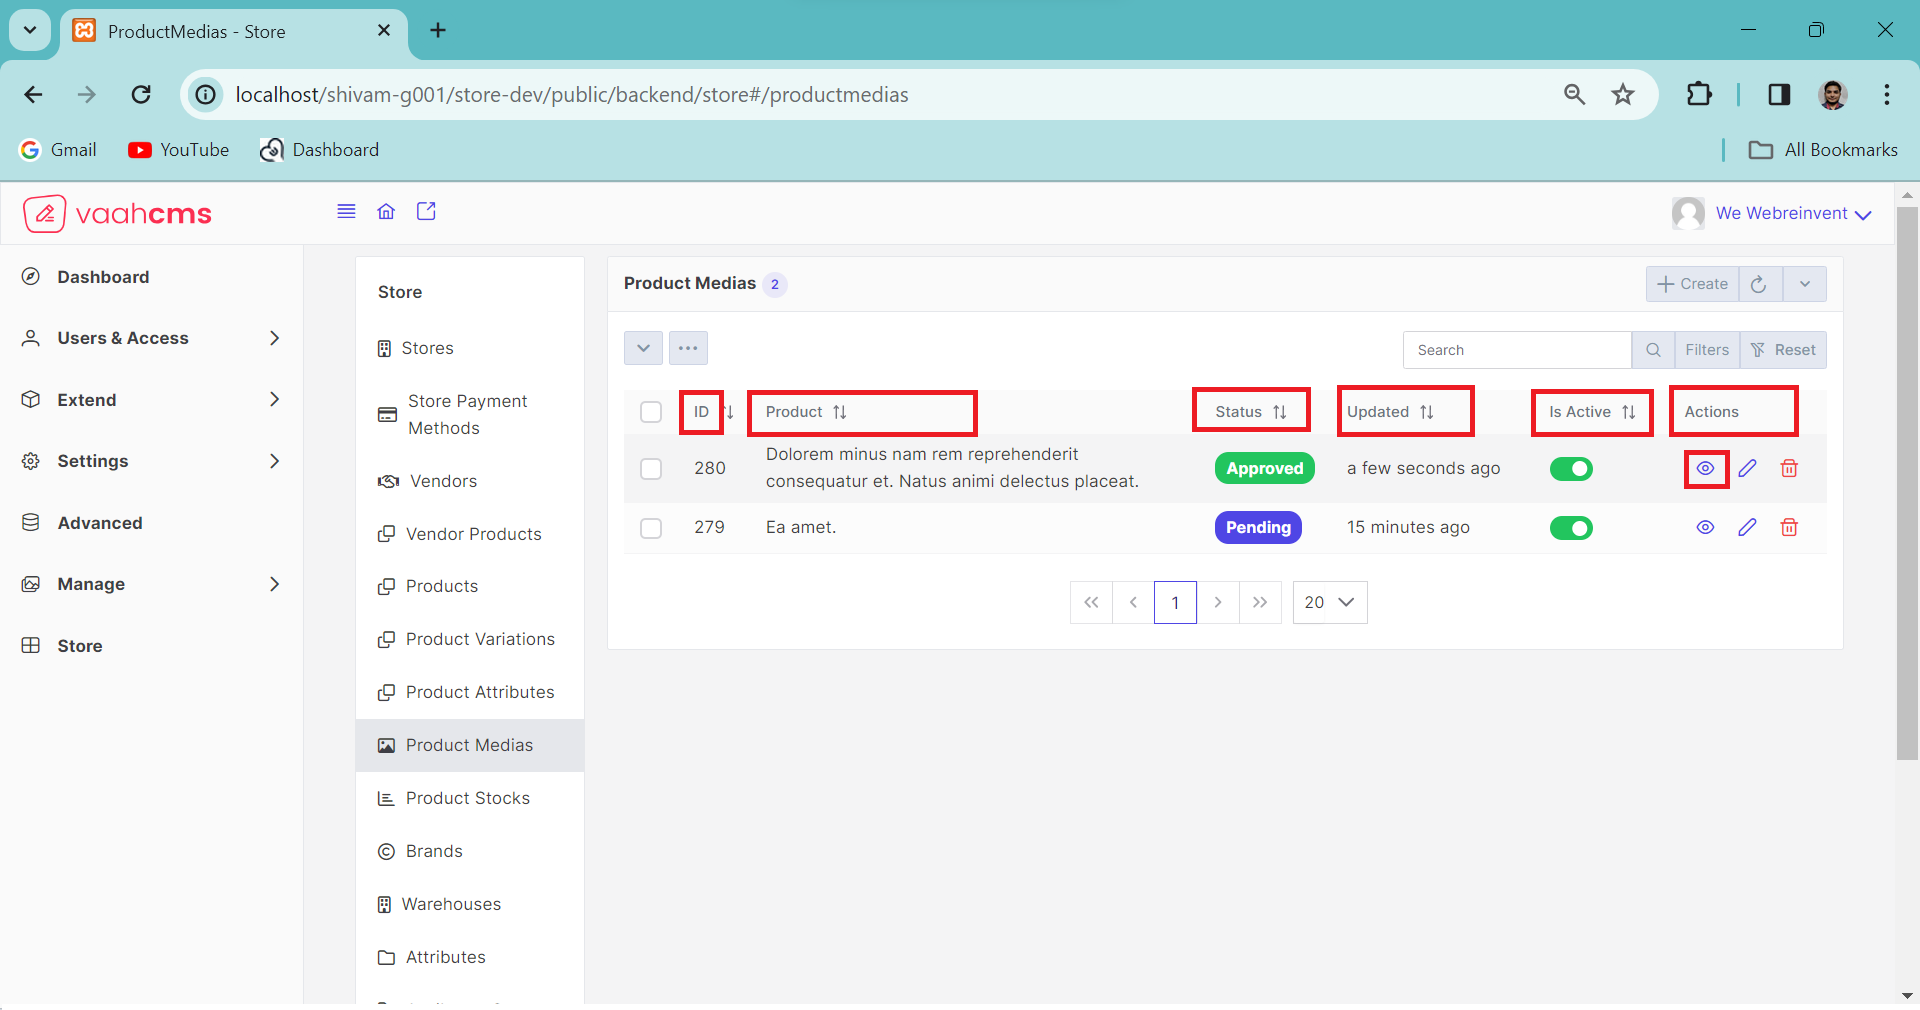
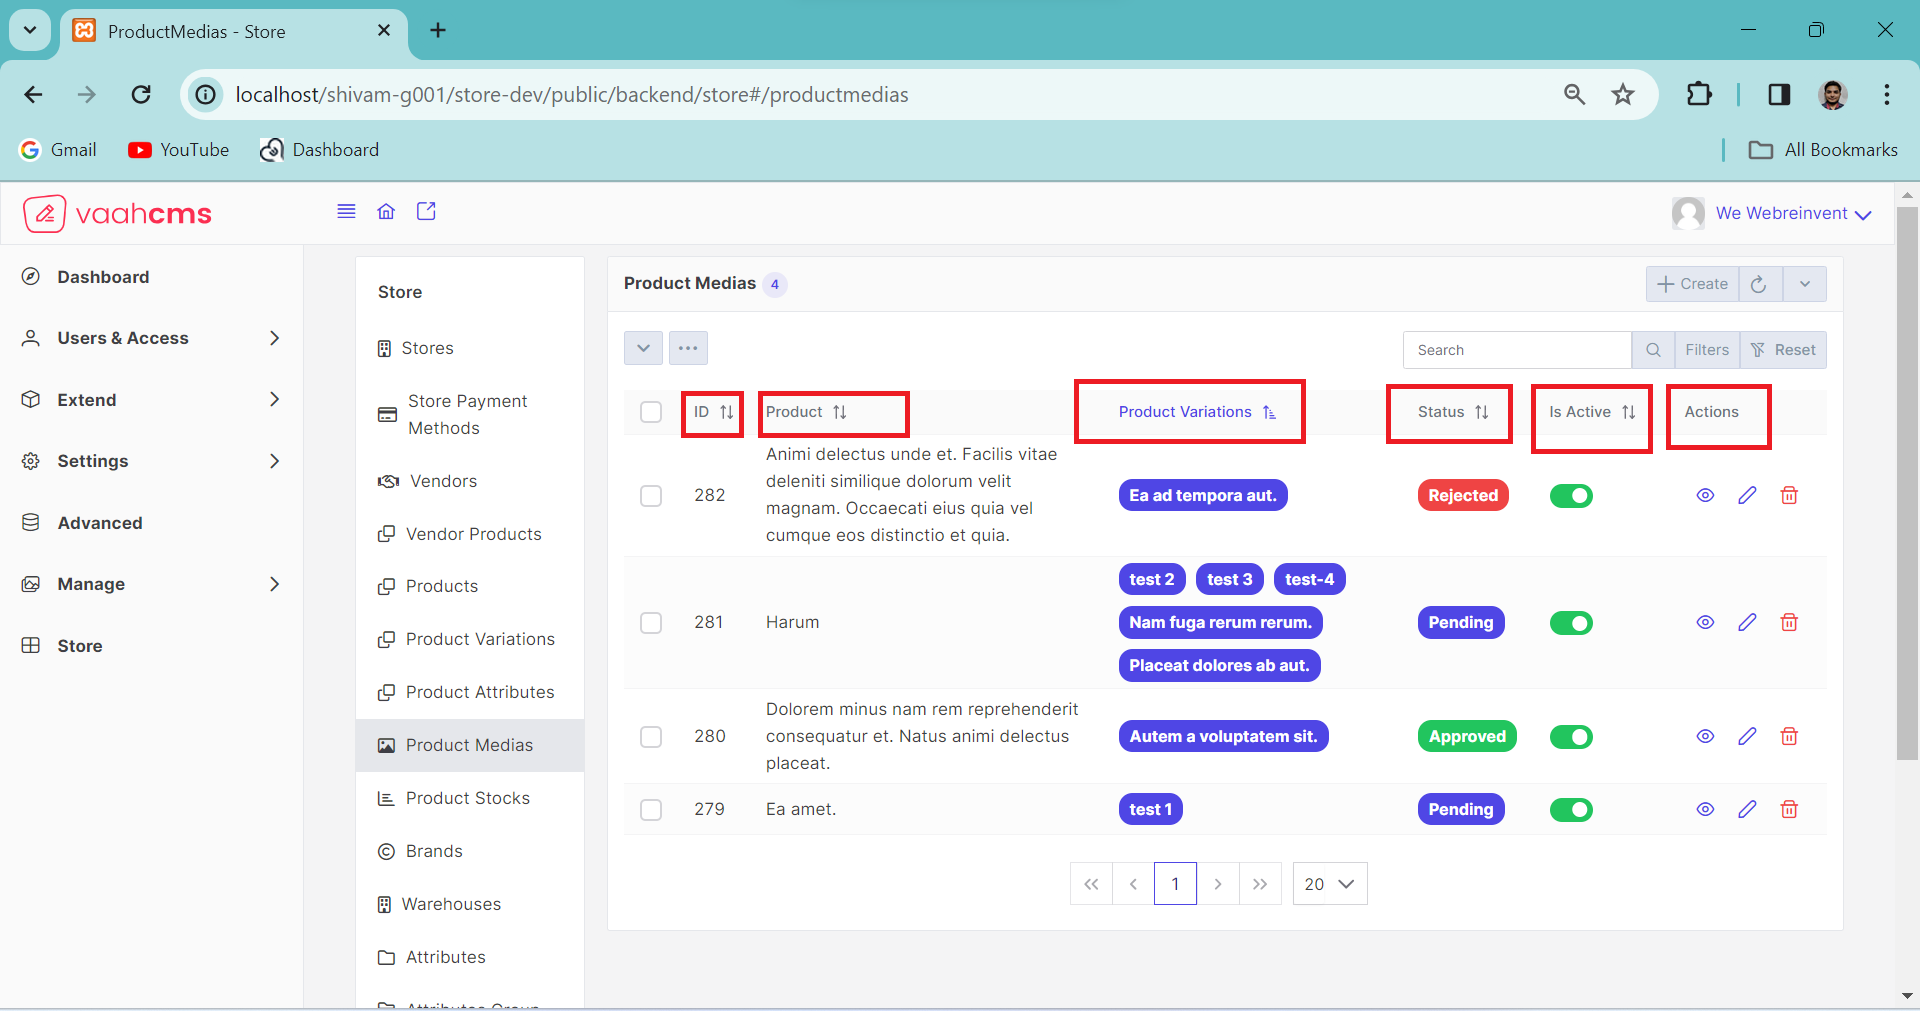
Updated: table content

diff --git a/content/vaahstore/2.basics/7.product-medias.md b/content/vaahstore/2.basics/7.product-medias.md
@@ -68,8 +68,8 @@ First time when  you interact with `Product Medias CRUD Table` in `VaahStore`, i
 | ------------ | ---- | -------------------------------------------- |
 | ID         |      |  Represents the unique identifier associated with this product media.          |
 | product         |      |  	Represents the product of the product media. specifies media containing with this product.         |
+| Product Variations   |      |  Represents the associated variation to this product.  |
 | Status         |      | Represents the status of this product media.         |
-| Updated At   |      |  Indicates the timestamp of the last update to the specifications.  |
 | Is Active         |      | Represents the status of the product media (active or inactive).  |
 | Actions         |      | Provides a set of actions for CRUD operations to achieve desired functionality.  |
 <img src="/images/vaahstore/product-medias/table.png">
